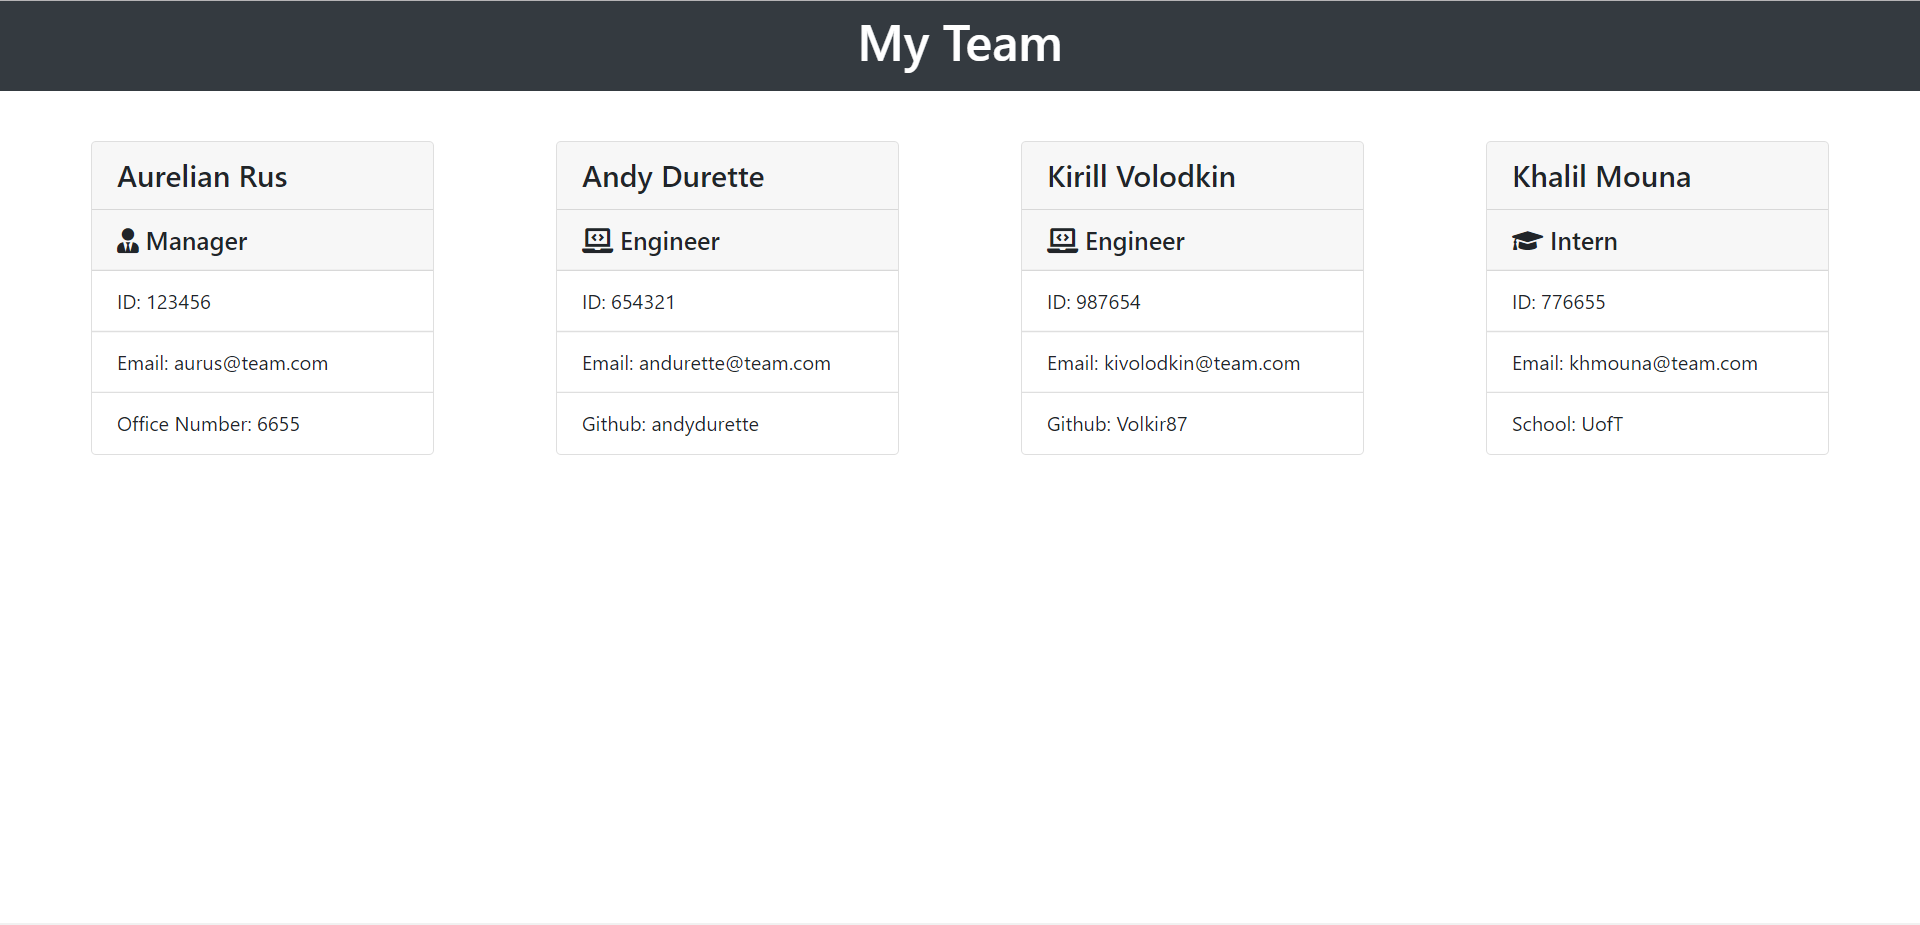
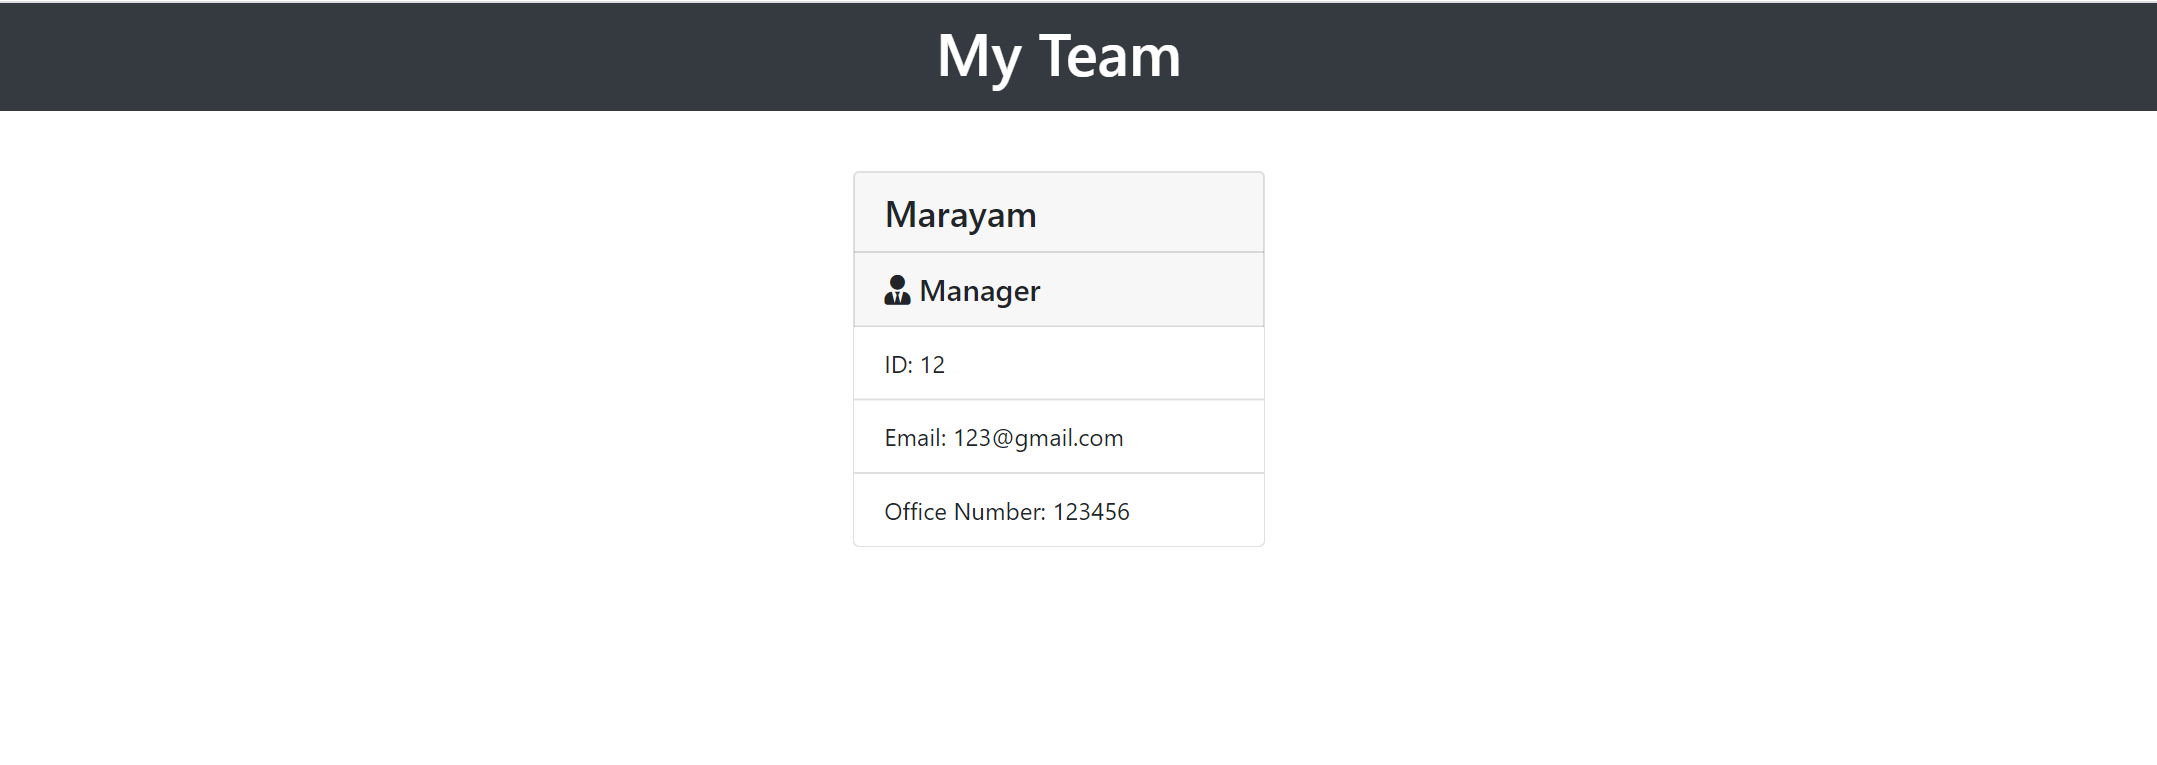
with read me file

diff --git a/output/MyTeam.html b/output/MyTeam.html
@@ -22,22 +22,12 @@
             <main class="d-flex justify-content-around flex-wrap p-4">
                 
 <div class="card m-3">
-    <h4 class="card-header">Manag</h4>
+    <h4 class="card-header">Marayam</h4>
     <h5 class="card-header"><i class="fas fa-user-tie"></i> Manager</h5>
     <ul class="list-group list-group-flush">
-        <li class="list-group-item">ID: 342</li>
-        <li class="list-group-item">Email: test@smth</li>
-        <li class="list-group-item">Office Number: 5453</li>
-    </ul>
-</div>
-
-<div class="card m-3">
-    <h4 class="card-header">simon</h4>
-    <h5 class="card-header"><i class="fa fa-laptop-code"></i> Engineer</h5>
-    <ul class="list-group list-group-flush">
-        <li class="list-group-item">ID: 35</li>
-        <li class="list-group-item">Email: sion$</li>
-        <li class="list-group-item">Github: hub</li>
+        <li class="list-group-item">ID: 12</li>
+        <li class="list-group-item">Email: 123@gmail.com</li>
+        <li class="list-group-item">Office Number: 123456</li>
     </ul>
 </div>
 

diff --git a/README.md b/README.md
@@ -1,1 +1,48 @@
 # Employee-directory
+
+
+Build a Software Engineering team using command line application. The command line will ask you for all the information required to build a team and generate a roaster of the team based on your input.
+> AS A manager
+>
+> I WANT to generate a webpage that displays my team's basic info
+>
+> SO THAT I have quick access to Phone No, E-mail and GitHub profile
+## Repository 
+Click the link below to check the repository :
+[GitHub URL](https://github.com/Maria2023/Employee-directory.git)
+
+## Requirements
+For testing, you will need Node.js and node global package, and also the following dependency packages installed in your environement.  
+### Node
+ Just go on [official Node.js website](https://nodejs.org/) and download the installer.
+Also, be sure to have `git` available in your PATH, `npm` might need it (You can find git [here](https://git-scm.com/)).  
+To check if its already installed just type the following commands to verify :
+```bash
+node --version
+v12.6.0
+git --version
+git version 2.21.0 (Apple Git-122)
+npm --version
+6.13.1
+```
+### NPM Packages
+- Inquirer -- Command Line Interface
+- Open -- Open files in browser
+- Jest -- To test the functions ( DEV Dependency)
+## Running the Application
+Run the following commands in your terminal window 
+```bash
+git clone https://github.com/Maria2023/Employee-directory.git 
+
+cd Team-Profile
+npm install
+```
+All packages will be installed and now run the application with the command below : 
+```bash
+node app.js
+```
+## Running the TESTS
+`npm test`
+
+## HTML Output
+![screenrecording_TeamRoaster](/assets/images/screenshot.png)
